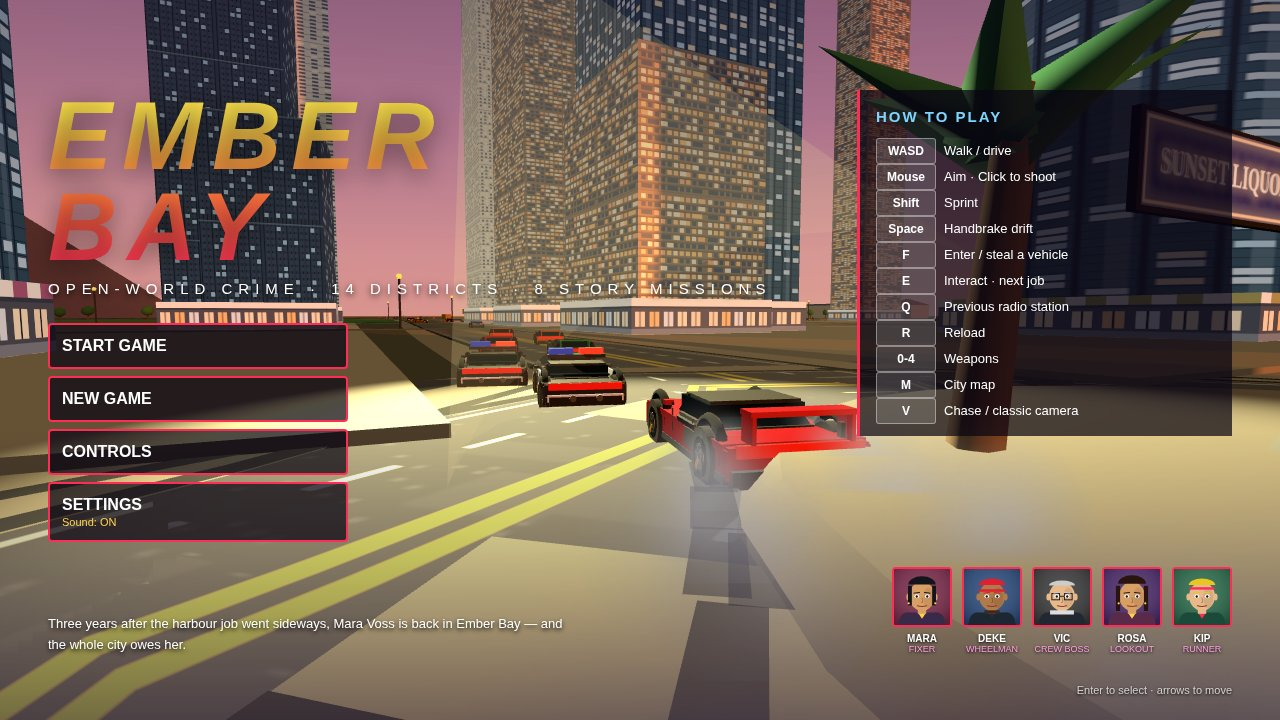
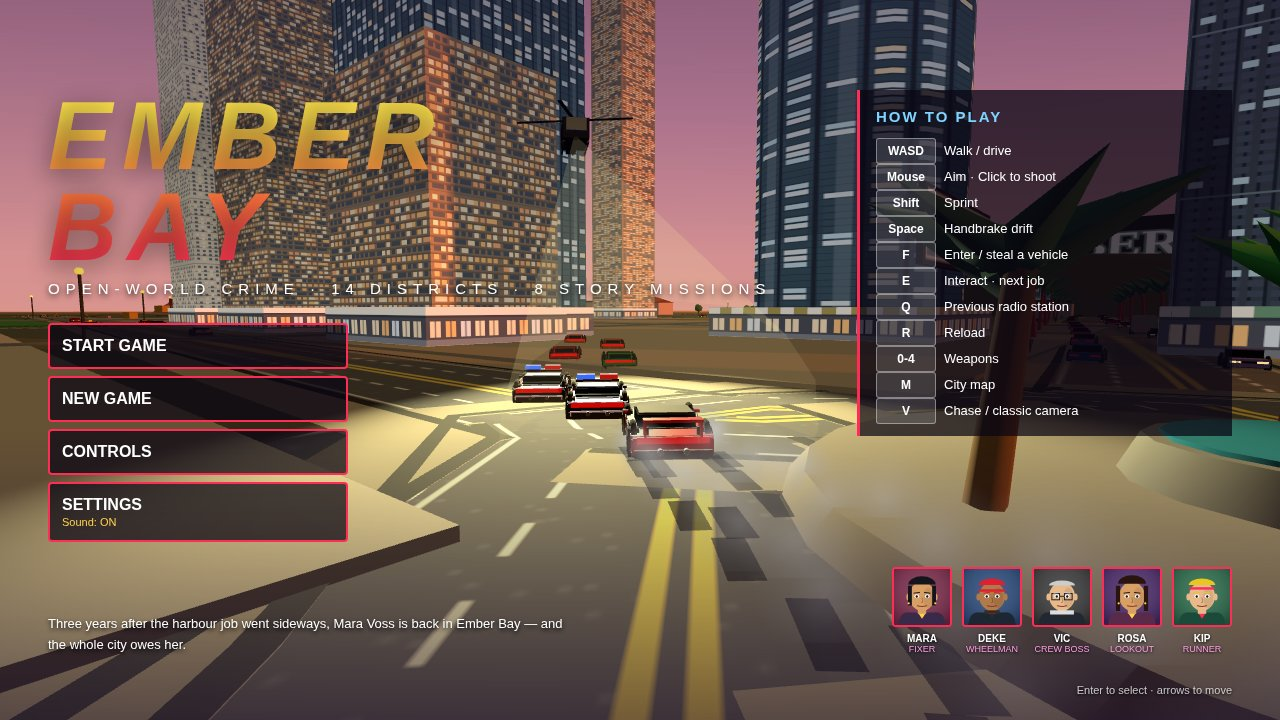
Ember Bay v15.1: title shot is the police chase

diff --git a/game/src/shots.js b/game/src/shots.js
@@ -120,8 +120,8 @@ export function updateShot(G, dt) {
     if (car) {
       const t = nsHeading(road, car.pos.z, 1);
       car.speed = 38;
-      car.heading = t + 0.35;
-      car.pos.x = nsCenter(road, car.pos.z, 1) - 3.5;
+      car.heading = t + 0.12;
+      car.pos.x = nsCenter(road, car.pos.z, 1) - 2.5;
       car.sync();
       const d = car.drift;
       d.active = true;
@@ -142,7 +142,7 @@ export function updateShot(G, dt) {
       const rx = Math.cos(car.heading), rz = -Math.sin(car.heading);
       const flash = Math.sin(G._titleT * 14) > 0;
       G._titleCops.forEach((cop, i) => {
-        const back = -(8 + i * 5);
+        const back = -(6 + i * 4);
         const side = i === 0 ? 2 : 4.5;
         cop.group.position.set(car.pos.x - fx * back + rx * side, 0, car.pos.z - fz * back + rz * side);
         cop.group.rotation.y = car.heading;
@@ -151,9 +151,9 @@ export function updateShot(G, dt) {
       });
       const h = G._titleHeli;
       if (h) {
-        const hx = car.pos.x + fx * 30 + rx * 6;
-        const hz = car.pos.z + fz * 30 + rz * 6;
-        h.group.position.set(hx, 26 + Math.sin(G._titleT * 0.8) * 1.5, hz);
+        const hx = car.pos.x + fx * 40 + rx * 4;
+        const hz = car.pos.z + fz * 40 + rz * 4;
+        h.group.position.set(hx, 19 + Math.sin(G._titleT * 0.8) * 1.5, hz);
         h.group.rotation.y = Math.atan2(car.pos.x - hx, car.pos.z - hz);
         h.rotor.rotation.y += dt * 22;
         h.tailRotor.rotation.x += dt * 30;
@@ -182,8 +182,8 @@ export function updateShot(G, dt) {
       G.traffic.cars.forEach((c, i) => { if (!tHeld.includes(c)) parkFar(c, i); });
       G.traffic.bikes.forEach((c, i) => parkFar(c, i));
       G.camOverride = {
-        pos: [car.pos.x - fx * 10 + rx * 4, 2.6, car.pos.z - fz * 10 + rz * 4],
-        look: [car.pos.x + fx * 8, 1.2, car.pos.z + fz * 8],
+        pos: [car.pos.x - fx * 18 + rx * 2, 4.2, car.pos.z - fz * 18 + rz * 2],
+        look: [car.pos.x + fx * 10, 1.8, car.pos.z + fz * 10],
       };
       G.playerHeading = car.heading;
     }
